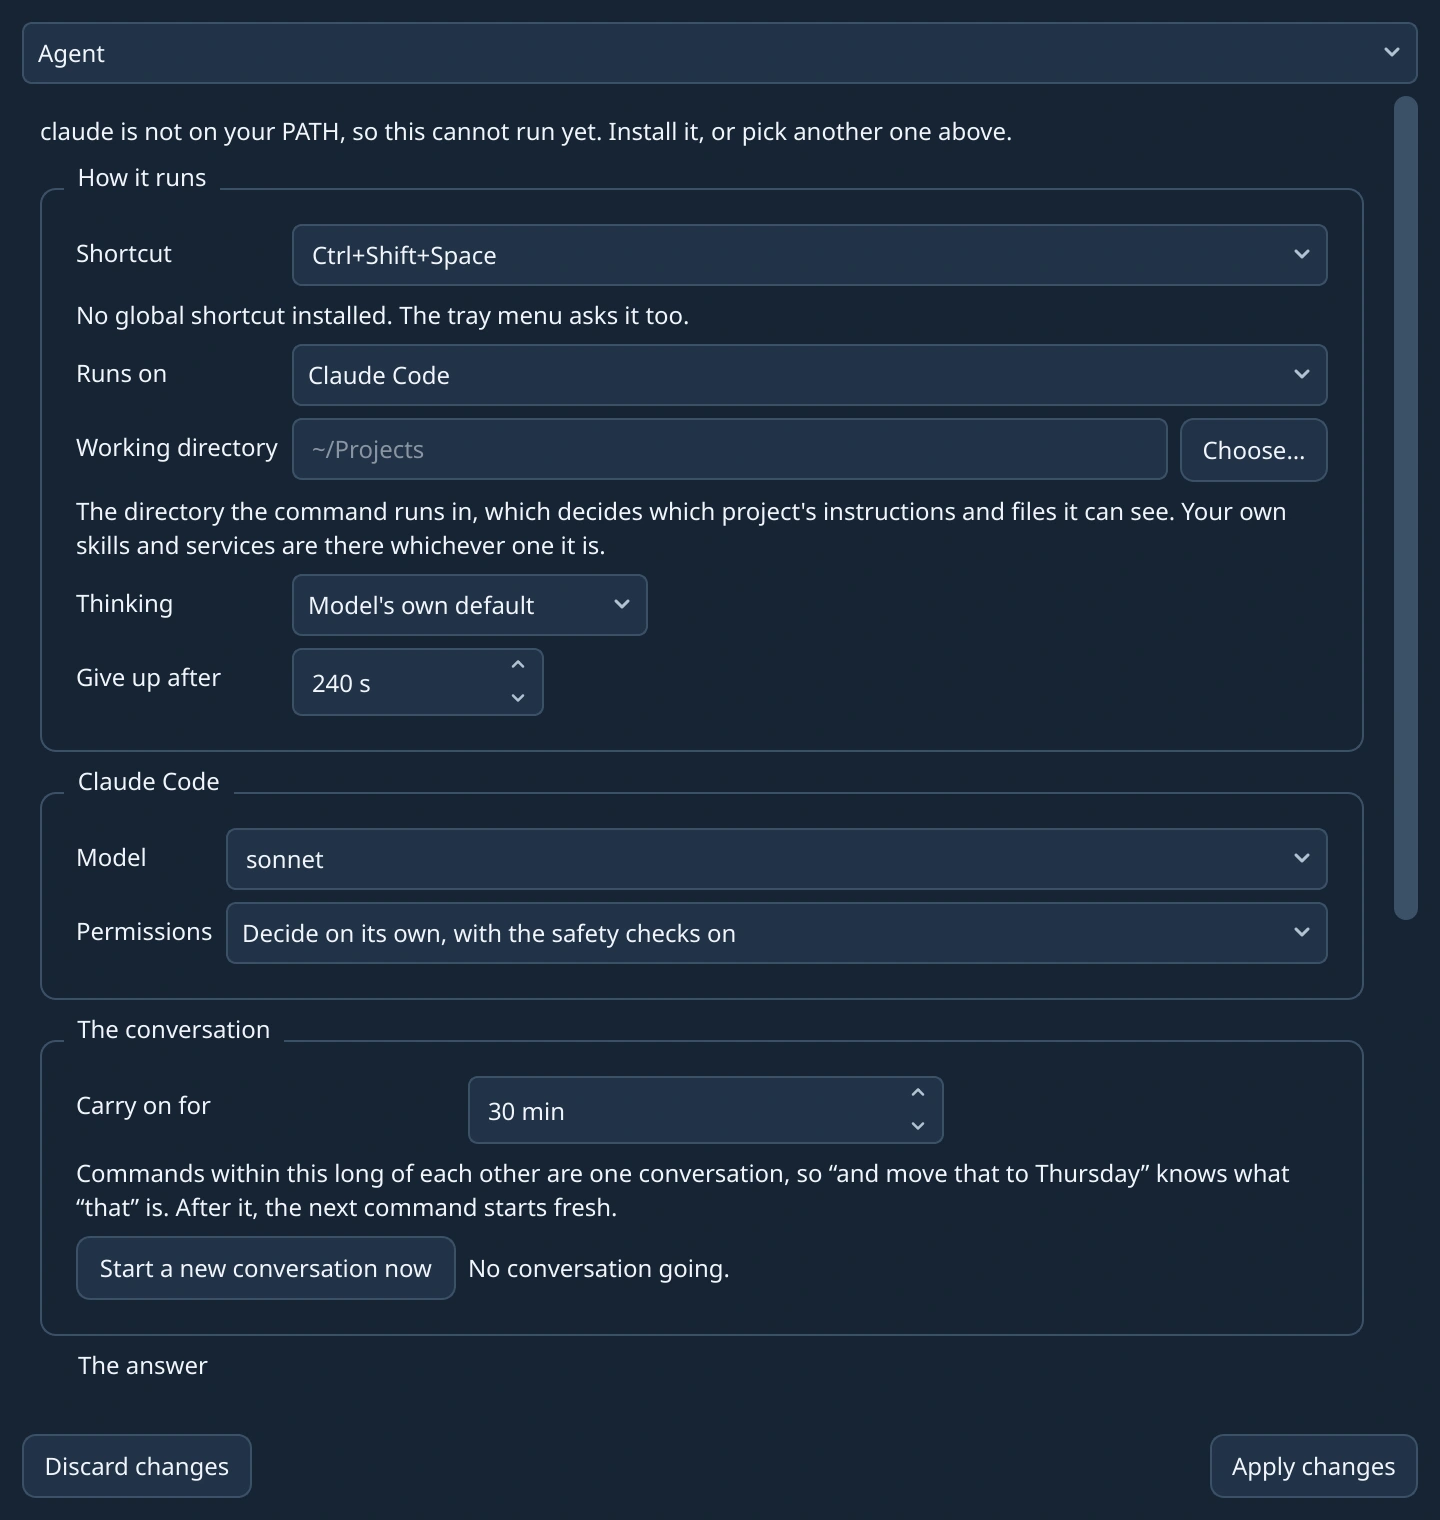
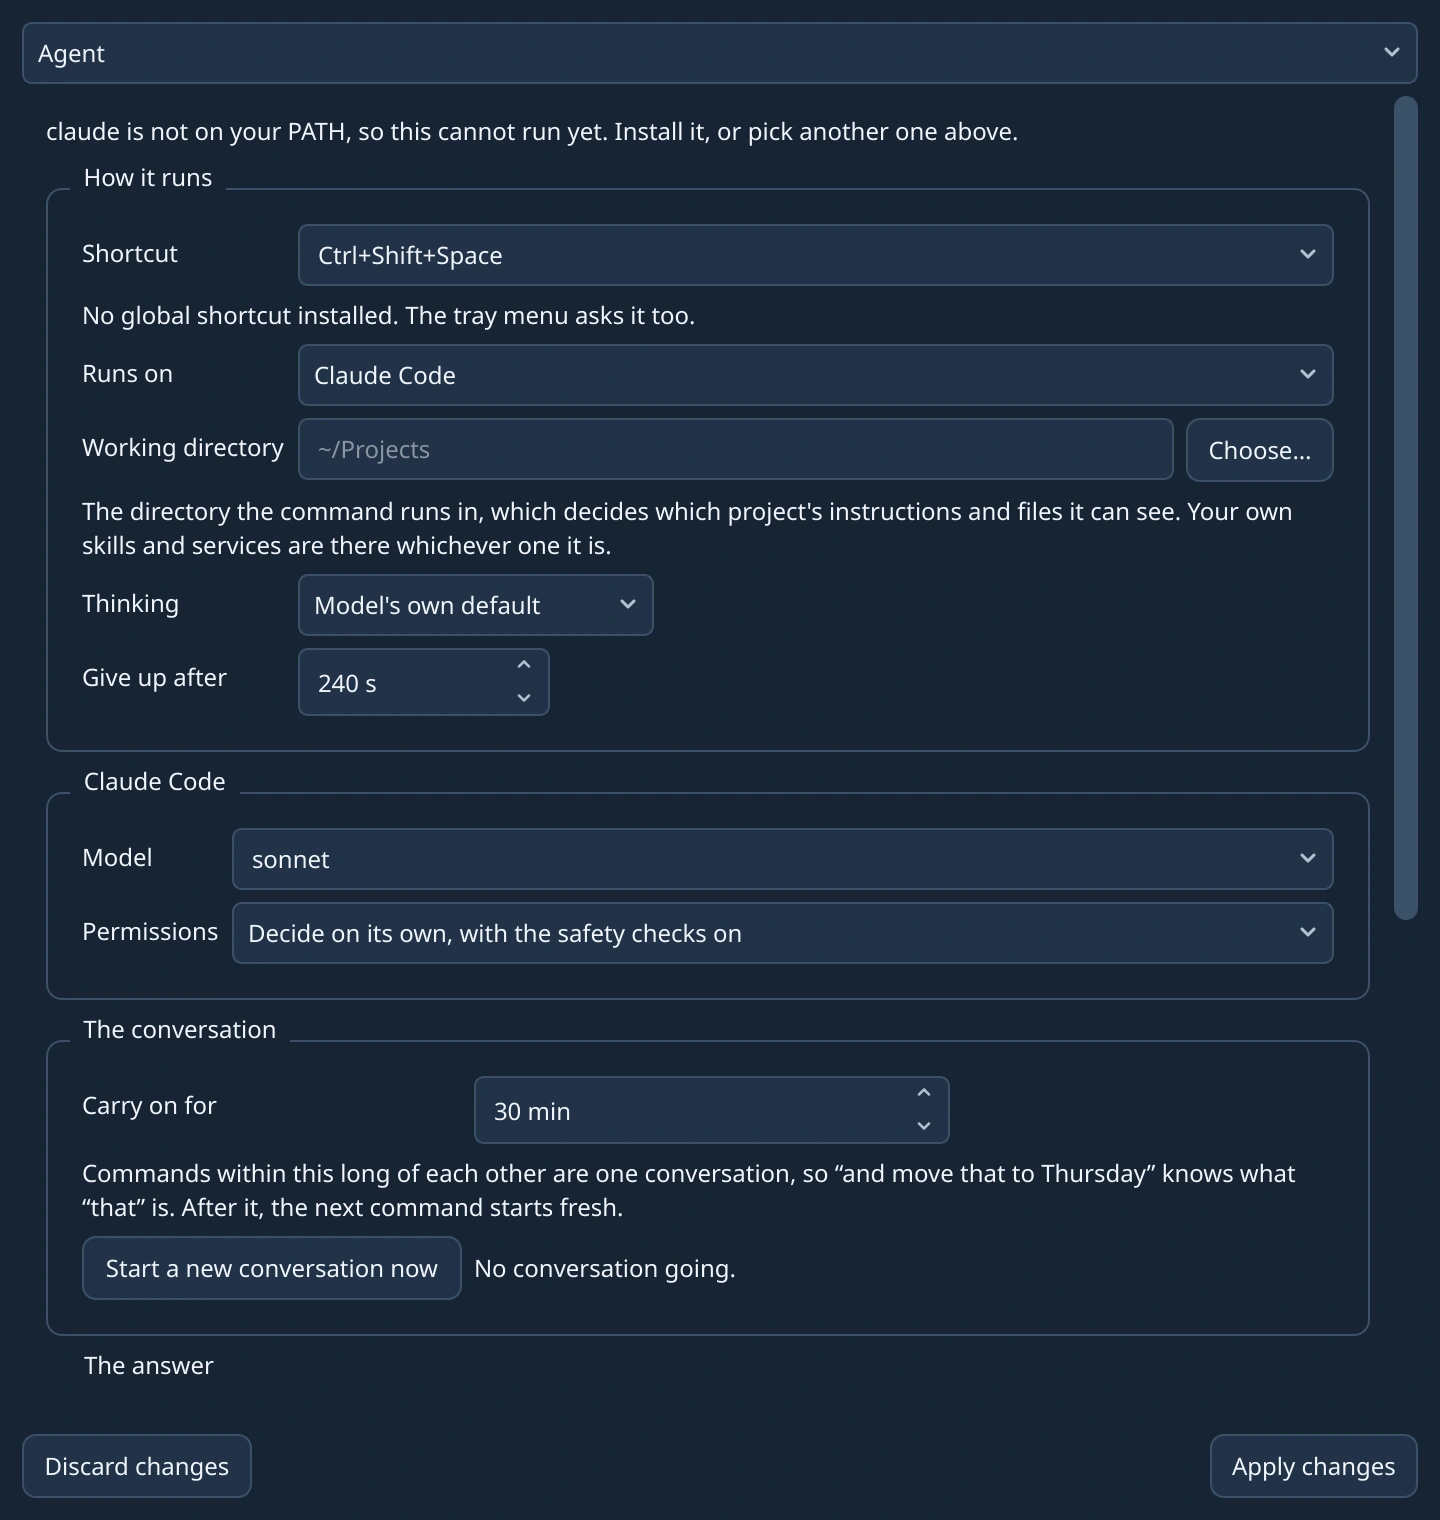
Center wide task pages and group related actions in one row

diff --git a/tests/test_home_ui.py b/tests/test_home_ui.py
@@ -4,7 +4,7 @@ from types import SimpleNamespace
 from unittest import mock
 
 from PyQt6.QtCore import Qt
-from PyQt6.QtWidgets import QApplication, QMessageBox
+from PyQt6.QtWidgets import QApplication, QMessageBox, QPushButton
 
 from dikte import config as cfg, home_ui, i18n
 from dikte.app import Dikte
@@ -85,6 +85,40 @@ class Home(DikteTest):
         QApplication.processEvents()
         self.assertLess(self.window.meeting_button.width(), 300)
         self.assertLessEqual(self.settings.minutes_view.width(), 680)
+
+    def test_wide_windows_center_every_task_and_settings_page(self):
+        self.window.resize(1900, 1000)
+        for mode, area in self.window.mode_pages.items():
+            self.window.show_mode(mode)
+            QApplication.processEvents()
+            with self.subTest(mode=mode):
+                self.assertLessEqual(area.widget().width(), 680)
+                self.assertAlmostEqual(area.widget().geometry().center().x(),
+                                       area.viewport().rect().center().x(), delta=1)
+        self.settings.resize(1900, 1000)
+        self.settings.show()
+        for index in range(self.settings.tabs.count()):
+            self.settings.tabs.setCurrentIndex(index)
+            QApplication.processEvents()
+            area = self.settings.tabs.widget(index)
+            with self.subTest(settings=index):
+                self.assertAlmostEqual(area.widget().geometry().center().x(),
+                                       area.viewport().rect().center().x(), delta=1)
+
+    def test_meeting_and_assistant_actions_share_one_row(self):
+        self.window.resize(620, 760)
+        for mode, labels in (
+            ("meeting", ("Copy", "Write it up", "Open the folder", "Delete selected", "Reload")),
+            ("ask", (self.window.ask_button.text(), "Start a new conversation")),
+        ):
+            self.window.show_mode(mode)
+            QApplication.processEvents()
+            page = self.window.mode_pages[mode]
+            buttons = {b.text(): b for b in page.findChildren(QPushButton)}
+            positions = [buttons[label].mapTo(page, buttons[label].rect().center()).y()
+                         for label in labels]
+            with self.subTest(mode=mode):
+                self.assertLessEqual(max(positions) - min(positions), 1)
 
     def test_empty_state_does_not_invent_a_transcript(self):
         self.assertEqual(self.window.latest_text.toPlainText(), "")

diff --git a/dikte/home_ui.py b/dikte/home_ui.py
@@ -160,10 +160,10 @@ class HomeWindow(QWidget):
         self.mode_pages["file"] = settings.task_pages["file"]
         self.mode_pages["meeting"] = self._scrolled(self._meeting_page())
         self.mode_pages["ask"] = self._scrolled(self._assistant_page())
-        self.mode_pages["history"] = self._history_page()
+        self.mode_pages["history"] = self._scrolled(self._history_page())
         for page in self.mode_pages.values():
             self.pages.addWidget(page)
-        self.footer = _label("", "footer")
+        self.footer = _label("", "footer", True)
         root.addWidget(self.footer)
         self._timer = QTimer(self)
         self._timer.setInterval(500)
@@ -189,6 +189,7 @@ class HomeWindow(QWidget):
         page.setMaximumWidth(680)
         area = QScrollArea()
         area.setWidgetResizable(True)
+        area.setAlignment(Qt.AlignmentFlag.AlignHCenter | Qt.AlignmentFlag.AlignTop)
         area.setFrameShape(QFrame.Shape.NoFrame)
         area.setWidget(page)
         return area
@@ -282,13 +283,16 @@ class HomeWindow(QWidget):
         layout.addWidget(self.ask_status)
         self.ask_scope = _label("", "muted")
         layout.addWidget(self.ask_scope)
+        actions = QHBoxLayout()
         self.ask_button = _button("", self._ask, "primary")
-        layout.addWidget(self.ask_button)
+        actions.addWidget(self.ask_button)
+        actions.addWidget(_button(t("Start a new conversation"), self.controller.reset_conversation))
+        actions.addStretch()
+        layout.addLayout(actions)
         self.ask_pause = _button(t("Pause the recording"), self._pause)
         layout.addWidget(self.ask_pause)
         self.ask_cancel = _button(t("Stop"), self._cancel_ask)
         layout.addWidget(self.ask_cancel)
-        layout.addWidget(_button(t("Start a new conversation"), self.controller.reset_conversation))
         self.ask_error = _label()
         layout.addWidget(self.ask_error)
         self.ask_output = QPlainTextEdit()

diff --git a/dikte/settings_ui.py b/dikte/settings_ui.py
@@ -1154,6 +1154,7 @@ class SettingsWindow(QDialog):
         page.setMaximumWidth(680)
         area = QScrollArea()
         area.setWidgetResizable(True)
+        area.setAlignment(Qt.AlignmentFlag.AlignHCenter | Qt.AlignmentFlag.AlignTop)
         area.setFrameShape(QScrollArea.Shape.NoFrame)
         area.setWidget(page)
         for box in page.findChildren((QComboBox, QAbstractSpinBox)):
@@ -1986,14 +1987,11 @@ class SettingsWindow(QDialog):
         row = QHBoxLayout()
         row.addWidget(copy)
         row.addWidget(self.minutes_retry)
+        row.addWidget(folder)
+        row.addWidget(delete)
+        row.addWidget(reload_)
         row.addStretch()
         layout.addLayout(row)
-        more = QHBoxLayout()
-        more.addWidget(folder)
-        more.addWidget(delete)
-        more.addWidget(reload_)
-        more.addStretch()
-        layout.addLayout(more)
         return page
 
     def _file_tab(self):
